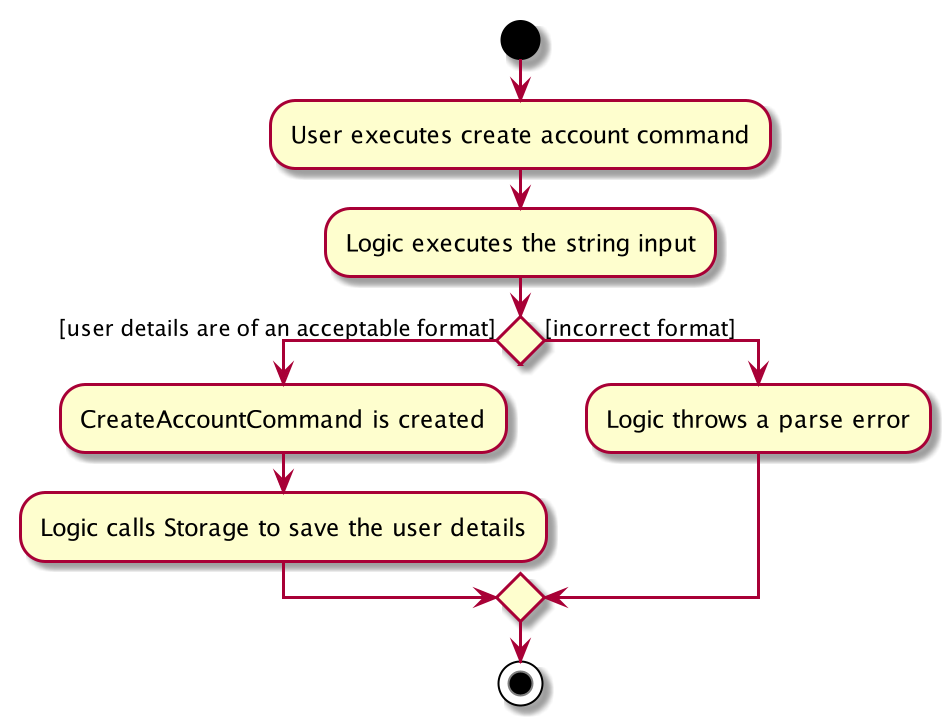
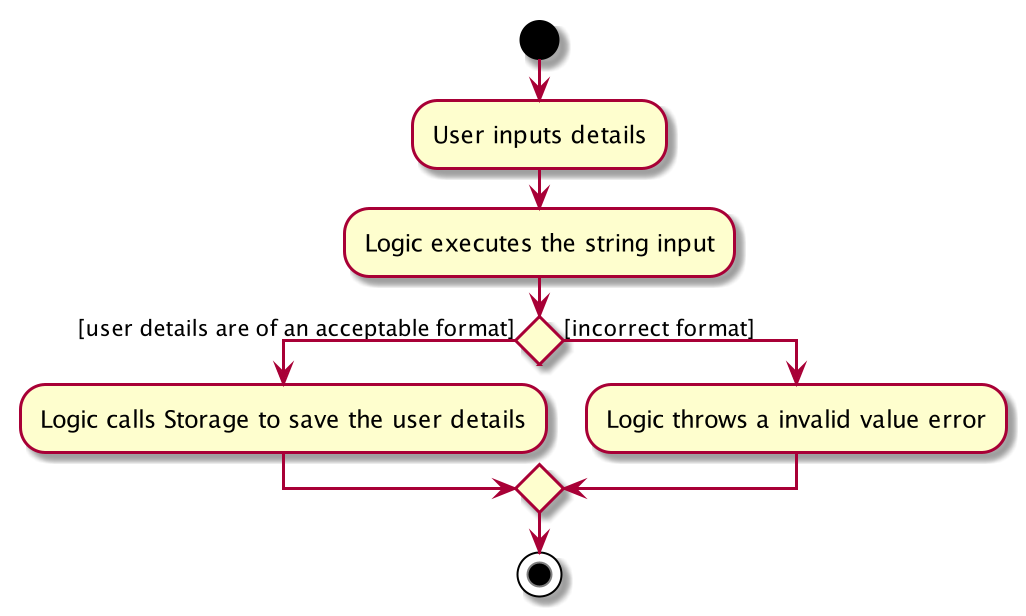
Update DG with login and account creation details

diff --git a/docs/DeveloperGuide.md b/docs/DeveloperGuide.md
@@ -192,33 +192,33 @@ Elaboration on point 1:
 * `access`-ing a `patient` loads the stored medical note list and sets the `MedicalNoteList` of the `patient` to the retrieved list
 * Hence, `note` command can only be called when viewing a `patient`'s profile as it ensures that the `MedicalNoteList` has already been properly loaded by executing `access` command beforehand
 
-### \[Proposed\] Account creation and login
+### Account creation and login
 
-#### Proposed implementation
+#### Implementation
 
-The proposed account creation feature is facilitated by a new `CreateAccountCommand`. It extends `Command`, similar to how all the other commands currently work.
+The account creation feature is facilitated by a new `CreateAccountWindow` class in the UI.
 
 ![CreateAccountSequenceDiagram](images/CreateAccountSequenceDiagram.png)
 
-Step 1. The user launches the application and executes `create u/example_username p/example_password`.
+Step 1. The user launches the application and chooses the `Create Account` option. Then, the user inputs all of the required details.
 
-Step 2. `Logic#execute(String commandText)` creates a new `CreateAccountCommand` and calls `Storage#saveNewAccountDetails()`.
+Step 2. The UI calls `Logic#createAccount()` with the details input by the user.
 
-Step 3. `Storage#saveNewAccountDetails()` converts the new account's username and password into json format and saves it a `AccountDetails.json` file.
+Step 3. `Storage#createAccount()` converts the new account's username and password into json format and saves it in a `accounts.json` file.
 
-The following activity diagram summarises what happens when a user executes a new command to create account.
+The following activity diagram summarises what happens when a user attempts to create an account.
 
 ![CreateAccountActivityDiagram](images/CreateAccountActivityDiagram.png)
 
-The proposed login feature is facilitated by a new `LoginWindow` class in the UI.
+The login feature is facilitated by a new `LoginWindow` class in the UI.
 
 ![LoginSequenceDiagram](images/LoginSequenceDiagram.png)
 
 Step 1. The user inputs his/her login information.
 
-Step 2. The UI calls `Logic#login()` with the login information as input.
+Step 2. The UI calls `Logic#processLoginInfo()` with the login information as input.
 
-Step 3. `Logic#login()` then calls `Storage#checkAccountDetails()` on the login information, to check if the information matches any of the account details saved.
+Step 3. `Logic#processLoginInfo()` then calls `Storage#login()` on the login information, to check if the information matches any of the account details saved.
 
 Step 4. If there is no match, an error is thrown. If there is a match, the UI then changes from `LoginWindow` to `MainWindow`, which signifies that the user has succesfully logged in.
 
@@ -453,7 +453,11 @@ testers are expected to do more *exploratory* testing.
 
    1. Download the jar file and copy into an empty folder
 
-   1. Double-click the jar file Expected: Shows the GUI with a set of sample contacts. The window size may not be optimum.
+   1. Double-click the jar file Expected: Shows the Login GUI. The window size may not be optimum.
+   
+   1. User can login using a username or password if they already have one or pick the `create account` option instead.
+   
+   1. After users login/create account, the GUI will show a set of sample contacts.
 
 1. Saving window preferences
 
